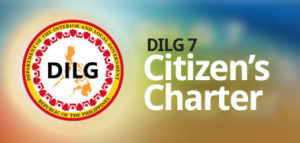
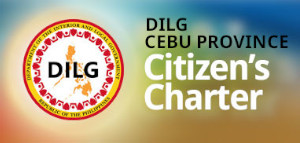
Adjusted CSS Code and Added Backgroung

Changed region(s): [[0.06, 0.1119, 0.42, 0.8671], [0.48, 0.1119, 0.96, 0.7832], [0.84, 0.3636, 0.87, 0.3916]]

diff --git a/styles.css b/styles.css
@@ -1,3 +1,16 @@
+/* Fullscreen Background Styles */
+.root-page {
+    background: url('./images/Cebu_Capitol_Compund.png') no-repeat center center fixed;
+    background-size: cover;
+    background-attachment: fixed;
+}
+
+.main-page {
+    background: url('./main/images/Cebu_Capitol_Compund.png') no-repeat center center fixed;
+    background-size: cover;
+    background-attachment: fixed;
+}
+
 /* Reset default browser styles */
 * {
     margin: 0;
@@ -19,11 +32,15 @@
 
 body {
     font-family: Arial, sans-serif;
-    background-color: #f5f5f5;
     min-height: 100vh;
     display: flex;
     justify-content: center;
     align-items: center;
+}
+
+/* Default background for all pages if no specific class is applied */
+body:not(.root-page):not(.main-page) {
+    background-color: #f5f5f5;
 }
 
 .container {
@@ -318,7 +335,13 @@ a[href="index.html?p=1853.html"] {
 body {
     padding-top: 80px;
     display: block;
-    padding-bottom: 60px; /* Add space for footer */
+    padding-bottom: 0; /* Remove extra space below footer */
+}
+
+/* Ensure content is visible over background image */
+.container {
+    position: relative;
+    z-index: 1;
 }
 
 /* Override container styles for pages with navigation */
@@ -383,26 +406,22 @@ body:not(.landing-page) .container {
     color: #0056b3;
 }
 
-/* Footer Dropdown Menu Styles */
+/* Footer Dropdown Menu Styles - Disabled */
 .footer-navigation .dropdown-menu {
-    position: absolute;
-    bottom: 100%;
-    left: 0;
+    display: none !important;
+    position: static;
+    opacity: 1;
+    visibility: visible;
+    transform: none;
+    box-shadow: none;
     min-width: 200px;
     background-color: #fff;
-    box-shadow: 0 -2px 5px rgba(0, 0, 0, 0.1);
-    opacity: 0;
-    visibility: hidden;
-    transform: translateY(-10px);
-    transition: all 0.3s ease;
     z-index: 100;
     list-style: none;
 }
 
 .footer-navigation .has-dropdown:hover .dropdown-menu {
-    opacity: 1;
-    visibility: visible;
-    transform: translateY(0);
+    display: none !important;
 }
 
 .footer-navigation .dropdown-menu li {
@@ -426,18 +445,13 @@ body:not(.landing-page) .container {
     color: #0056b3;
 }
 
-/* Footer Dropdown indicator styles */
+/* Footer Dropdown indicator styles - Disabled */
 .footer-navigation .main-menu > li.has-dropdown > a::after {
-    content: "▲";
-    display: inline-block;
-    margin-left: 5px;
-    font-size: 10px;
-    transition: transform 0.3s ease;
-    vertical-align: middle;
+    display: none;
 }
 
 .footer-navigation .has-dropdown:hover > a::after {
-    transform: rotate(180deg);
+    transform: none;
 }
 
 /* Copyright Section */
@@ -451,6 +465,12 @@ body:not(.landing-page) .container {
 .jupiterx-subfooter-copyright {
     font-size: 12px;
     color: #666;
+}
+
+/* Ensure no extra space below footer */
+.jupiterx-footer, .jupiterx-subfooter {
+    margin-bottom: 0;
+    padding-bottom: 0;
 }
 
 /* Responsive Footer */
@@ -494,5 +514,58 @@ body:not(.landing-page) .container {
     .jupiterx-footer-widgets .col-md-3 {
         width: 100%;
         margin-bottom: 20px;
+    }
+}
+
+/* LGU's Menu Grid Styles */
+/* 
+ * The LGU menu should be organized as follows:
+ * - First column: 11 items (with "Cebu" as the first item)
+ * - Columns 2-5: 10 items each
+ * This requires manual adjustment in the HTML markup
+ */
+.lgu-grid {
+    display: grid;
+    grid-template-columns: repeat(5, 1fr);
+    gap: 10px;
+    width: 100%;
+    max-width: 1200px;
+    margin: 0 auto;
+    padding: 20px;
+}
+
+.lgu-grid li {
+    list-style: none;
+    padding: 5px 0;
+}
+
+.lgu-grid li a {
+    color: #333;
+    text-decoration: none;
+    transition: color 0.3s ease;
+    font-size: 14px;
+    display: block;
+}
+
+.lgu-grid li a:hover {
+    color: #0056b3;
+}
+
+/* Responsive adjustments for LGU grid */
+@media screen and (max-width: 992px) {
+    .lgu-grid {
+        grid-template-columns: repeat(3, 1fr);
+    }
+}
+
+@media screen and (max-width: 768px) {
+    .lgu-grid {
+        grid-template-columns: repeat(2, 1fr);
+    }
+}
+
+@media screen and (max-width: 480px) {
+    .lgu-grid {
+        grid-template-columns: 1fr;
     }
 }

diff --git a/main/index.html b/main/index.html
@@ -166,7 +166,7 @@ WebFont.load({
 <link rel="icon" href="wp-content/uploads/2019/10/dilg-logo.png" sizes="192x192" />
 <link rel="apple-touch-icon" href="wp-content/uploads/2019/10/dilg-logo.png" />
 <meta name="msapplication-TileImage" content="http://region7.dilg.gov.ph/wp-content/uploads/2019/10/dilg-logo.png" />
-</head><body class="home page-template page-template-elementor_header_footer page page-id-250 current_page_item no-js jet-desktop-menu-active elementor-default elementor-template-full-width elementor-kit-3750 elementor-page elementor-page-250 jupiterx-header-fixed jupiterx-header-overlapped jupiterx-header-overlapped-tablet jupiterx-header-overlapped-mobile" itemscope="itemscope" itemtype="http://schema.org/WebPage"><div class="jupiterx-site">
+</head><body class="home page-template page-template-elementor_header_footer page page-id-250 current_page_item no-js jet-desktop-menu-active elementor-default elementor-template-full-width elementor-kit-3750 elementor-page elementor-page-250 jupiterx-header-fixed jupiterx-header-overlapped jupiterx-header-overlapped-tablet jupiterx-header-overlapped-mobile main-page" itemscope="itemscope" itemtype="http://schema.org/WebPage"><div class="jupiterx-site">
     <header class="main-header">
         <nav class="main-navigation">
             <div class="nav-logo">
@@ -189,14 +189,14 @@ WebFont.load({
                         <a href="index.html?p=21.html">Programs & Services</a>
                         <ul class="dropdown-menu">
                             <li><a href="http://region7.dilg.gov.ph/programs-services/dilgs-mandatory-ppas-2/">DILG – LG SECTOR MAIN THRUSTS</a></li>
-                            <li><a href="index.html?p=63.html">DILG 7's Customized PPAs</a></li>
+                            <li><a href="index.html?p=63.html">DILG Cebu Province's Customized PPAs</a></li>
                         </ul>
                     </li>
                     <li class="has-dropdown">
                         <a href="index.html?p=17.html">Transparency at Work</a>
                         <ul class="dropdown-menu">
                             <li><a href="index.html?p=301.html">Transparency Seal</a></li>
-                            <li><a href="index.html?p=31.html">Regional, Provincial & HUC Status: LGU Compliance on Full Disclosure</a></li>
+                            <li><a href="index.html?p=31.html">Provincial Status: LGU Compliance on Full Disclosure</a></li>
                             <li><a href="index.html?p=33.html">LGU Compliance on Full Disclosure</a></li>
                             <li><a href="index.html?p=35.html">Vacant Positions</a></li>
                         </ul>
@@ -444,8 +444,6 @@ WebFont.load({
 			<div class="elementor-widget-wrap elementor-element-populated">
 						<div class="elementor-element elementor-element-0345b7e elementor-widget elementor-widget-image" data-id="0345b7e" data-element_type="widget" data-widget_type="image.default">
 				<div class="elementor-widget-container">
-																<a href="https://www.lguvscovid.ph/">
-							<img loading="lazy" decoding="async" width="600" height="222" src="wp-content/uploads/2023/02/a1.jpg" class="attachment-large size-large wp-image-7539" alt="" srcset="wp-content/uploads/2023/02/a1.jpg 600w, wp-content/uploads/2023/02/a1-300x111.jpg 300w" sizes="(max-width: 600px) 100vw, 600px" />								</a>
 															</div>
 				</div>
 					</div>
@@ -506,8 +504,6 @@ WebFont.load({
 			<div class="elementor-widget-wrap elementor-element-populated">
 						<div class="elementor-element elementor-element-a8b5462 elementor-widget__width-initial elementor-widget elementor-widget-image" data-id="a8b5462" data-element_type="widget" data-widget_type="image.default">
 				<div class="elementor-widget-container">
-																<a href="https://online.anyflip.com/xcigc/lcrj/mobile/index.html">
-							<img decoding="async" src="wp-content/uploads/elementor/thumbs/kalambuan-p4aba3pgc23ok1upg2hbikq6mj2iysvl4xbl0zbkxk.png" title="kalambuan" alt="kalambuan" loading="lazy" />								</a>
 															</div>
 				</div>
 					</div>

diff --git a/index.html b/index.html
@@ -9,7 +9,7 @@
     <!-- Fallback to relative path if not at root -->
     <link rel="stylesheet" href="./styles.css">
 </head>
-<body>
+<body class="root-page">
     <!-- Main navigation removed - this page serves as a gateway to the main site -->
     <div class="container">
         <div class="logo-container">

diff --git a/README.md b/README.md
@@ -11,7 +11,9 @@ dilgcebuprovincewebsite-1/
 ├── index.html              # Landing page
 ├── styles.css              # Main CSS file (at repository root)
 ├── main/                   # Main website content
-│   └── index.html          # Main website homepage
+│   ├── index.html          # Main website homepage
+│   └── image/              # Images for main section
+│       └── Cebu_Capitol_Compund.png  # Background image
 ├── assets/                 # Asset files
 │   ├── fonts/              # Custom fonts
 │   │   ├── EuphoriaScript-Regular.ttf
@@ -19,13 +21,18 @@ dilgcebuprovincewebsite-1/
 │   └── js/                 # JavaScript files
 ├── images/                 # Image files
 │   ├── logo.png            # DILG Cebu Province Logo
-│   └── lgrc.png            # LGRC Logo
+│   ├── lgrc.png            # LGRC Logo
+│   └── Cebu_Capitol_Compund.png  # Background image
 └── README.md               # This file
 ```
 
 ## CSS Structure
 
 The main `styles.css` file is located at the repository root for optimal compatibility with GitHub Pages. This ensures that styles are properly applied regardless of which page is being viewed.
+
+## Background Image
+
+Ensure the file `Cebu_Capitol_Compund.png` is placed in both the `./images/` and `./main/image/` directories for proper background rendering in both local and GitHub Pages environments.
 
 ## Font Usage
 
